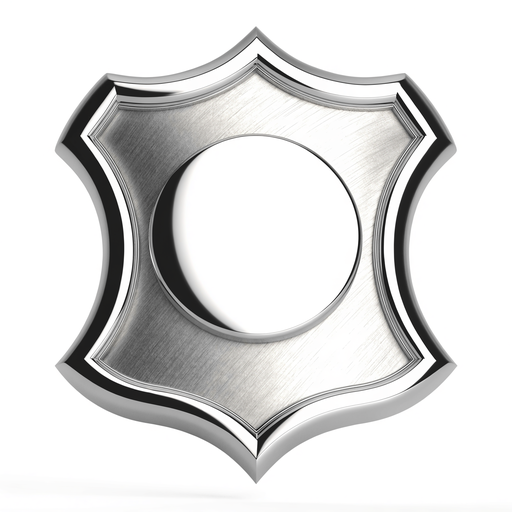
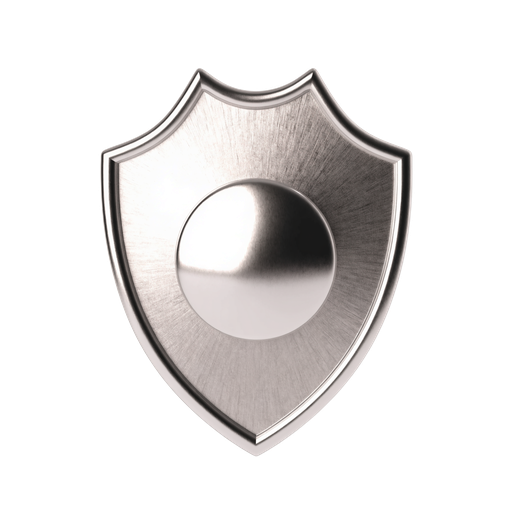
Use solid-center silver shield; drop boss workaround
Replaced badge-silver.png with the solid-center shield render (no
cut-through hole), so the opaque boss disc is no longer needed. Removed
the SILVER_BOSS constant and its render branch from BadgeMedallion. Art
downscaled to 512px.

Verified: tsc --noEmit clean; expo export (android) bundles.

Claude-Session: https://claude.ai/code/session_01V9zXaHy2SyQPXjAUqW9Vun

diff --git a/mobile/src/components/BadgeMedallion.tsx b/mobile/src/components/BadgeMedallion.tsx
@@ -384,10 +384,6 @@ const BADGE_ART: Record<BadgeMetal, number> = {
   emerald: require('../../assets/badges/badge-emerald.png'),
 };
 
-// The silver shield render has a cut-through centre; fill it with an opaque
-// metal boss so the screen doesn't show through the hole. Fractions of the box.
-const SILVER_BOSS = { cx: 0.52, cy: 0.52, d: 0.40 };
-
 // ─── Main export ──────────────────────────────────────────────────────────────
 
 export default function BadgeMedallion({
@@ -401,7 +397,6 @@ export default function BadgeMedallion({
 
   // ── Earned: the photoreal render IS the badge (no overlaid icon) + sparkle ──
   if (art) {
-    const bossSize = metal === 'silver' ? size * SILVER_BOSS.d : 0;
     return (
       <View
         style={{
@@ -411,24 +406,6 @@ export default function BadgeMedallion({
         } as any}
       >
         <Image source={art} style={{ width: size, height: size }} resizeMode="contain" />
-
-        {/* Opaque metal boss to fill the silver shield's cut-through centre */}
-        {!!bossSize && (
-          <View
-            pointerEvents="none"
-            style={{
-              position: 'absolute',
-              left: SILVER_BOSS.cx * size - bossSize / 2,
-              top: SILVER_BOSS.cy * size - bossSize / 2,
-              width: bossSize, height: bossSize, borderRadius: bossSize / 2,
-              backgroundColor: palette.faceMid,
-              borderWidth: Math.max(1, size * 0.012), borderColor: palette.rimLight,
-              overflow: 'hidden',
-            }}
-          >
-            <View style={{ flex: 1, backgroundColor: palette.faceLight, opacity: 0.45 }} />
-          </View>
-        )}
 
         {/* Sparkle field — full FX budget only (hero + detail surfaces) */}
         {fx === 'full' && TWINKLES.map((t, i) => (